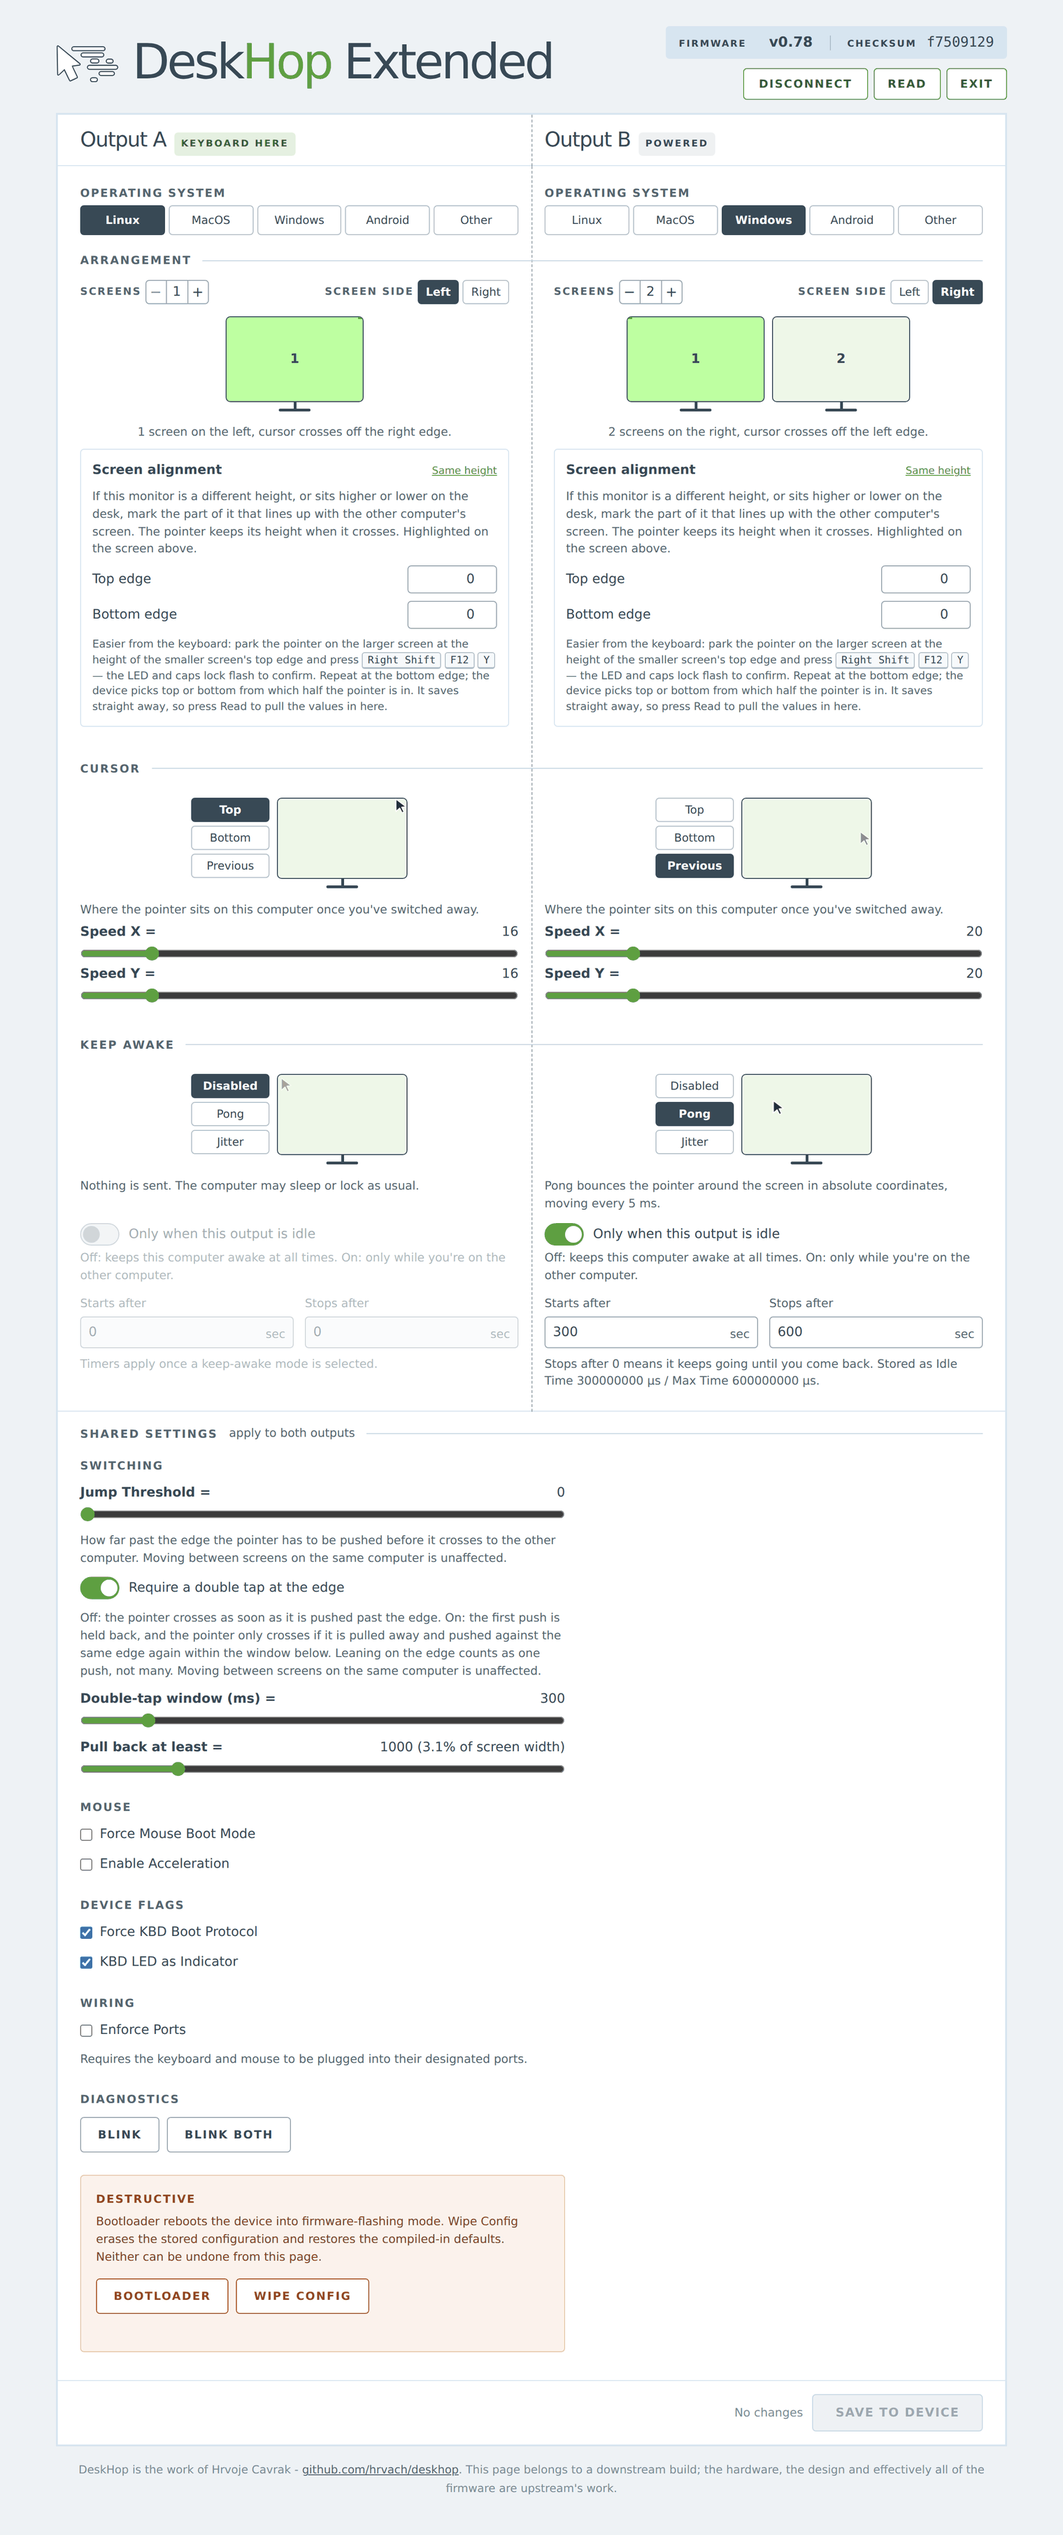
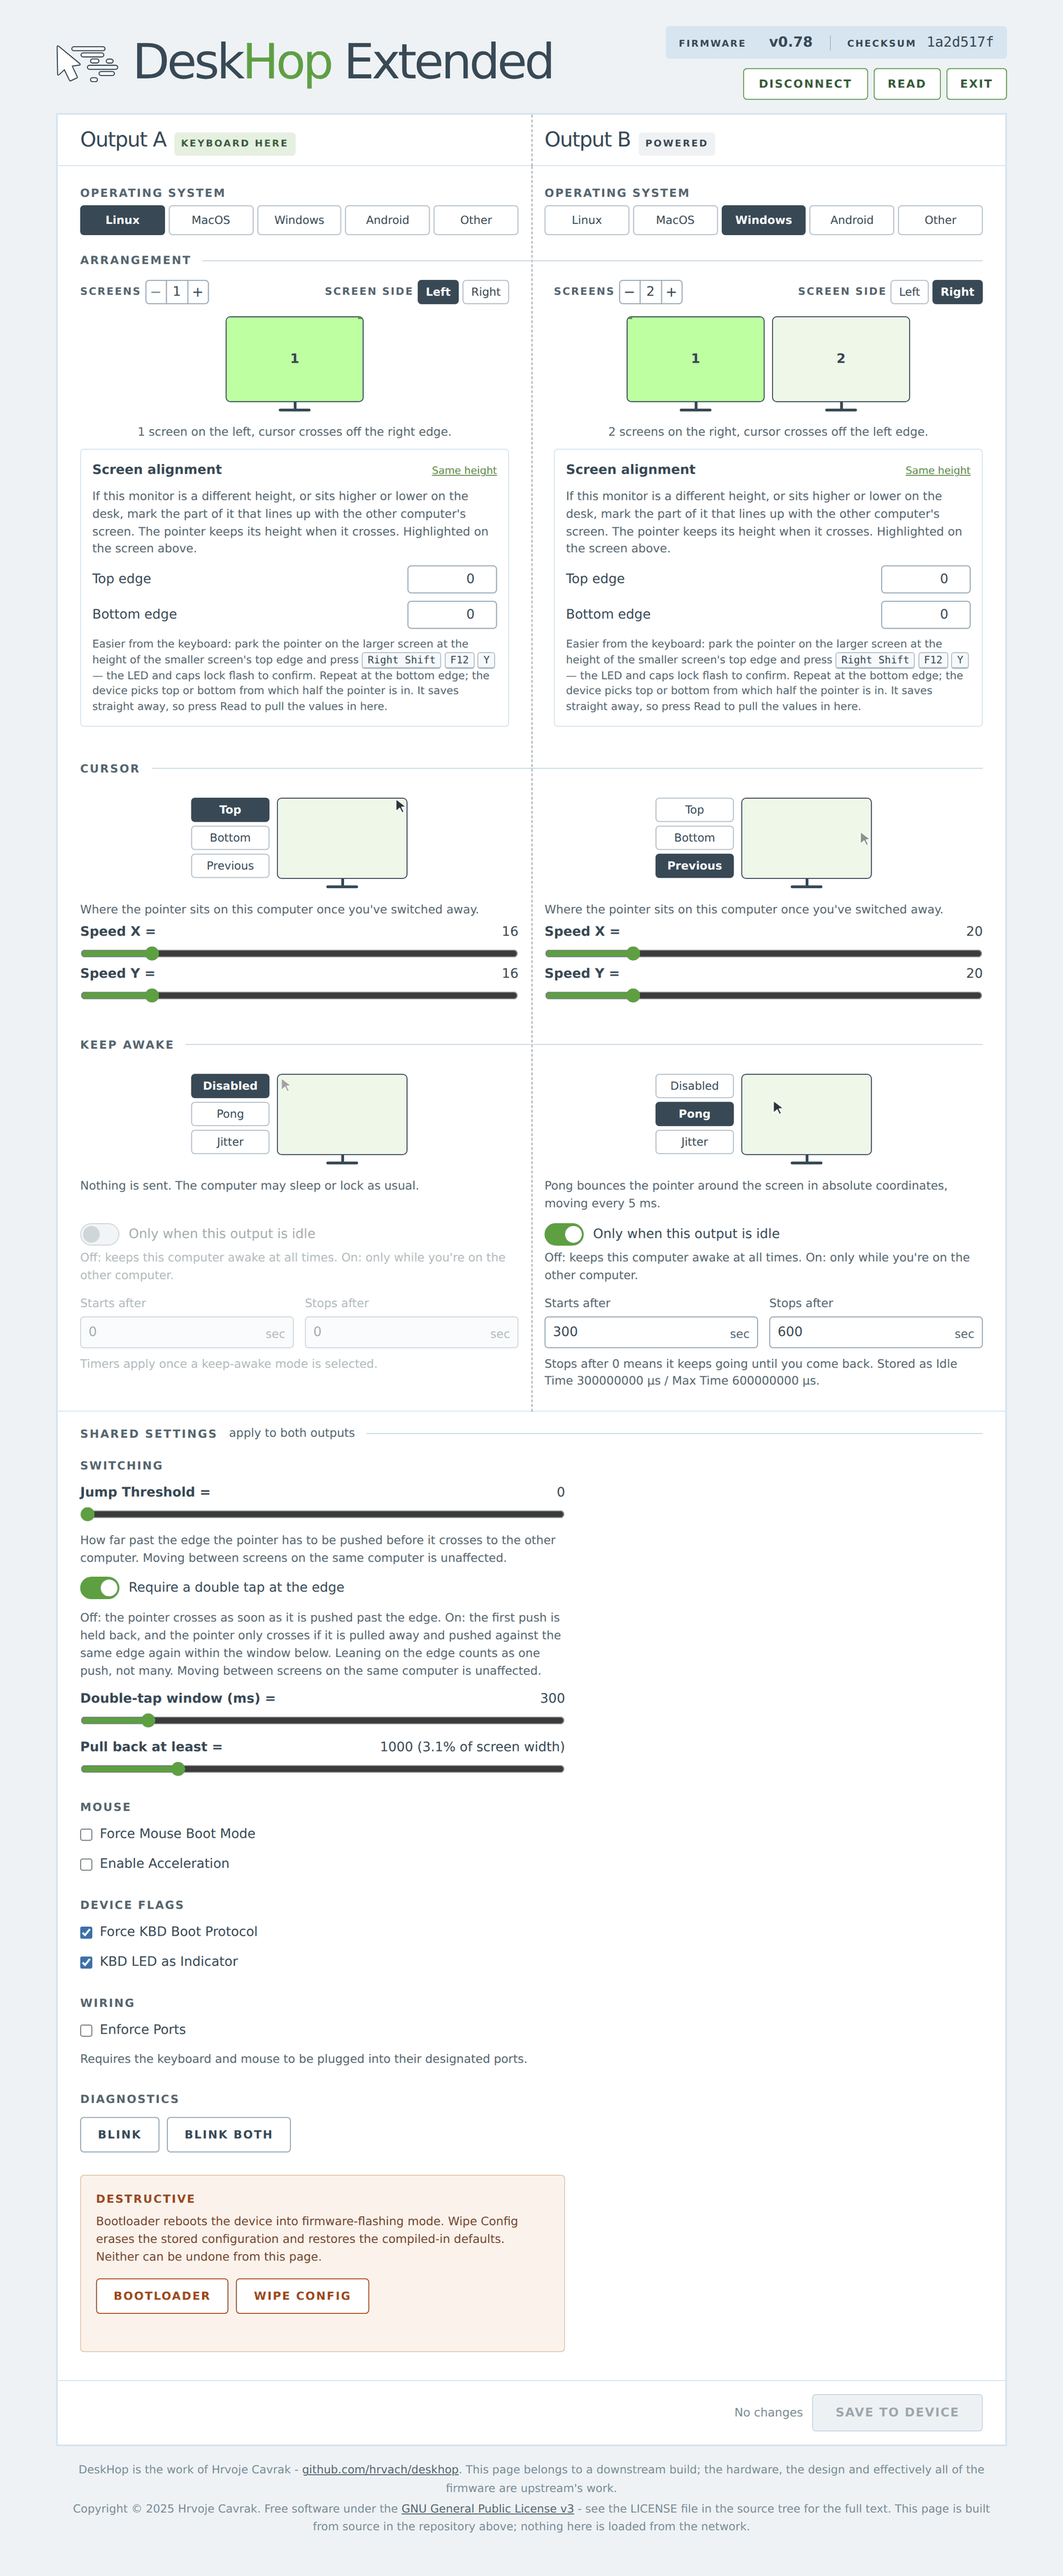
Add licensing to the config page footer and keep the screenshot reproducible
The footer credited Hrvoje Cavrak but said nothing about terms. It now
carries the copyright line and names the GPL v3, pointing at the LICENSE
file for the full text, and restates that the page is built from source
in the repo and loads nothing from the network - the same ground
upstream's README covers in its FAQ.

misc/shoot-config-page.py is the script that produced the README
screenshot, which until now lived outside the repo and would have been
lost. It reads the firmware version from CMakeLists.txt and the checksum
from build/deskhop.crc rather than carrying invented ones, works around
the sticky Save bar overlapping the page in a full-page capture, and
warns if webconfig/form.py grows a setting the sample configuration does
not cover. Output is deterministic - two runs give the same bytes.

Regenerated config.htm (24304 bytes, still 12 clusters), disk.img and
the screenshot. The disk section rebuilt on its own this time, which is
the OBJECT_DEPENDS fix from the previous commit doing its job.

diff --git a/webconfig/config.htm b/webconfig/config.htm
@@ -1,1 +1,1 @@
[2 lines of base64/hex data omitted]

diff --git a/webconfig/config-unpacked.htm b/webconfig/config-unpacked.htm
@@ -319,6 +319,7 @@ input[type=range][disabled] { accent-color: var(--grey); cursor: default; }
 /* Credit to the upstream project, below the card and outside the inert gate so
    it stays readable and clickable while no device is attached. */
 .attrib { margin: 16px 4px 0; font-size: 12px; line-height: 1.6; color: var(--grey); text-align: center; }
+.attrib p { margin: 3px 0; }
 .attrib a { color: var(--muted); }
 
 /* Buttons that only mean something once a device is attached. */
@@ -836,10 +837,14 @@ input[type=range][disabled] { accent-color: var(--grey); cursor: default; }
   </div>
 
   <div class="attrib">
-    DeskHop is the work of Hrvoje Cavrak -
+    <p>DeskHop is the work of Hrvoje Cavrak -
     <a href="https://github.com/hrvach/deskhop" target="_blank" rel="noopener noreferrer">github.com/hrvach/deskhop</a>.
     This page belongs to a downstream build; the hardware, the design and
-    effectively all of the firmware are upstream's work.
+    effectively all of the firmware are upstream's work.</p>
+    <p>Copyright &copy; 2025 Hrvoje Cavrak. Free software under the
+    <a href="https://www.gnu.org/licenses/gpl-3.0.html" target="_blank" rel="noopener noreferrer">GNU General Public License v3</a>
+    - see the LICENSE file in the source tree for the full text. This page is built from
+    source in the repository above; nothing here is loaded from the network.</p>
   </div>
 
 </div>

diff --git a/webconfig/templates/main.html b/webconfig/templates/main.html
@@ -382,10 +382,14 @@
   </div>
 
   <div class="attrib">
-    DeskHop is the work of Hrvoje Cavrak -
+    <p>DeskHop is the work of Hrvoje Cavrak -
     <a href="https://github.com/hrvach/deskhop" target="_blank" rel="noopener noreferrer">github.com/hrvach/deskhop</a>.
     This page belongs to a downstream build; the hardware, the design and
-    effectively all of the firmware are upstream's work.
+    effectively all of the firmware are upstream's work.</p>
+    <p>Copyright &copy; 2025 Hrvoje Cavrak. Free software under the
+    <a href="https://www.gnu.org/licenses/gpl-3.0.html" target="_blank" rel="noopener noreferrer">GNU General Public License v3</a>
+    - see the LICENSE file in the source tree for the full text. This page is built from
+    source in the repository above; nothing here is loaded from the network.</p>
   </div>
 
 </div>

diff --git a/webconfig/templates/style.css b/webconfig/templates/style.css
@@ -288,6 +288,7 @@ input[type=range][disabled] { accent-color: var(--grey); cursor: default; }
 /* Credit to the upstream project, below the card and outside the inert gate so
    it stays readable and clickable while no device is attached. */
 .attrib { margin: 16px 4px 0; font-size: 12px; line-height: 1.6; color: var(--grey); text-align: center; }
+.attrib p { margin: 3px 0; }
 .attrib a { color: var(--muted); }
 
 /* Buttons that only mean something once a device is attached. */

diff --git a/misc/shoot-config-page.py b/misc/shoot-config-page.py
@@ -1,0 +1,122 @@
+#!/usr/bin/env python3
+"""Regenerate img/config-page-extended.png, the README screenshot of the config page.
+
+Loads webconfig/config.htm - the shipped self-extracting artifact, not the unpacked
+source - in headless Chromium and drives it into its connected state with a sample
+configuration, since nothing can pair over WebHID from a build machine. The firmware
+version comes from CMakeLists.txt and the checksum from build/deskhop.crc, so both are
+the real values for this tree rather than invented ones. Run `cmake --build build`
+first if you want the checksum to be current.
+
+Requires playwright (with `playwright install chromium`) and pillow. On Debian/Ubuntu
+the browser also needs: sudo apt install libnss3 libnspr4 libasound2t64
+
+Usage: misc/shoot-config-page.py [output.png]
+"""
+import binascii
+import re
+import struct
+import subprocess
+import sys
+from pathlib import Path
+
+from PIL import Image
+from playwright.sync_api import sync_playwright
+
+REPO = Path(subprocess.run(["git", "rev-parse", "--show-toplevel"], cwd=Path(__file__).parent,
+                           capture_output=True, text=True, check=True).stdout.strip())
+OUT = Path(sys.argv[1]) if len(sys.argv) > 1 else REPO / "img/config-page-extended.png"
+
+WIDTH = 1140          # a little over the 1020px .page, leaving the card some margin
+FINAL_WIDTH = 1520    # matches img/config-page-big.png; rendering at 2x then downscaling
+
+# A plausible desk, not a capture of any particular device. Output A base 10,
+# output B base 40 - see webconfig/form.py for what each offset means.
+VALUES = {
+    # Output A - Linux, single screen on the left.
+    11: 1, 12: 16, 13: 16, 14: 0, 15: 0, 16: 1, 17: 1, 18: 0, 19: 0, 20: 0, 21: 0, 22: 0,
+    # Output B - Windows, two screens on the right, Pong screensaver once idle.
+    41: 2, 42: 20, 43: 20, 44: 0, 45: 0, 46: 3, 47: 2, 48: 3, 49: 1, 50: 1,
+    51: 300_000_000, 52: 600_000_000,
+    # Shared. 72 (boot-protocol keyboard) and 83 (edge double-tap) are this fork's additions.
+    71: 0, 72: 1, 73: 1, 75: 0, 76: 0, 77: 0, 83: 1, 84: 300, 85: 1000,
+}
+
+DRIVE = """
+([values, fw, sum]) => {
+  setConnected(true);
+  for (const [key, v] of Object.entries(values)) {
+    const input = document.querySelector(`[data-key="${key}"]`);
+    if (input) setValue(input, v);
+  }
+  document.querySelector('[data-fw-ver]').value = fw;
+  document.querySelector('[data-hex]').value = sum;
+  refreshOutput('A'); refreshOutput('B'); refreshSwitching(); markClean();
+  /* Settings this script left at their default, so drift in form.py gets noticed.
+     The firmware version and checksum are set above, not from values. */
+  return [...document.querySelectorAll('[data-key]')]
+    .filter(e => !e.hasAttribute('data-fw-ver') && !e.hasAttribute('data-hex'))
+    .map(e => e.dataset.key)
+    .filter(k => !(k in values));
+}
+"""
+
+
+def firmware_version() -> str:
+    """v<major>.<minor>, the way the page formats what the device reports."""
+    cmake = (REPO / "CMakeLists.txt").read_text()
+    major = re.search(r"set\(VERSION_MAJOR (\d+)\)", cmake).group(1)
+    minor = re.search(r"set\(VERSION_MINOR (\d+)\)", cmake).group(1)
+    return f"v{major}.{minor}"
+
+
+def firmware_checksum() -> str:
+    """CRC32 from the last build, formatted as the page's data-hex field renders it."""
+    crc = REPO / "build/deskhop.crc"
+    if not crc.exists():
+        return "—" * 8
+    _magic, _version, value = struct.unpack("<IHI", crc.read_bytes())
+    return f"{value:x}"
+
+
+def main() -> None:
+    page_url = (REPO / "webconfig/config.htm").as_uri()
+    with sync_playwright() as p:
+        browser = p.chromium.launch()
+        page = browser.new_page(viewport={"width": WIDTH, "height": 1200}, device_scale_factor=2)
+        errors: list[str] = []
+        page.on("pageerror", lambda e: errors.append(str(e)))
+        page.goto(page_url)
+        page.wait_for_selector("#panel", timeout=15000)
+        undriven = page.evaluate(DRIVE, [{str(k): v for k, v in VALUES.items()},
+                                         firmware_version(), firmware_checksum()])
+        page.wait_for_timeout(400)
+
+        # The Save bar is position:sticky. A full_page capture paints it at the initial
+        # viewport's bottom edge, over the Keep awake section. Growing the viewport to the
+        # whole document puts it back where it sits naturally, at the foot of the card.
+        page.set_viewport_size({"width": WIDTH,
+                                "height": page.evaluate("document.documentElement.scrollHeight")})
+        page.wait_for_timeout(200)
+        shot = page.screenshot()
+        browser.close()
+
+    if errors:
+        sys.exit(f"page raised errors, refusing to write a broken screenshot: {errors}")
+    if undriven:
+        print(f"warning: settings {', '.join(undriven)} are on the page but not in VALUES, so "
+              "they render at their default - add them from webconfig/form.py", file=sys.stderr)
+
+    tmp = OUT.with_suffix(".raw.png")
+    tmp.write_bytes(shot)
+    image = Image.open(tmp)
+    image = image.resize((FINAL_WIDTH, round(image.height * FINAL_WIDTH / image.width)),
+                         Image.LANCZOS).convert("P", palette=Image.ADAPTIVE, colors=256)
+    image.save(OUT, optimize=True)
+    tmp.unlink()
+    print(f"wrote {OUT.relative_to(REPO)}: {image.width}x{image.height}, "
+          f"{OUT.stat().st_size // 1024} KB")
+
+
+if __name__ == "__main__":
+    main()
